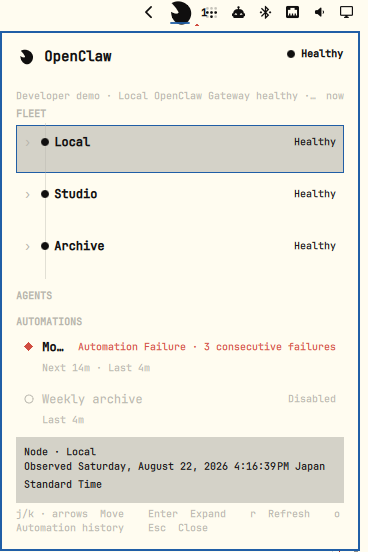
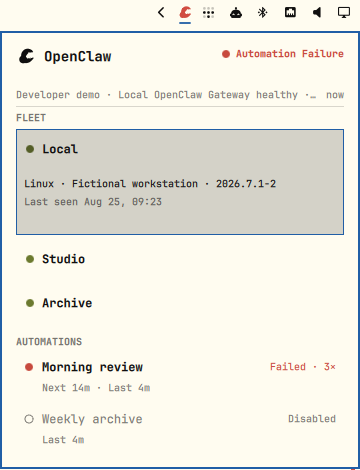
docs: READMEと実画面プレビューを更新する

diff --git a/README.md b/README.md
@@ -1,10 +1,36 @@
 # Clawbar
 
-Clawbar is a read-only OpenClaw Fleet signal board for the Omarchy bar. It
-collects bounded Operational Metadata from one configured Gateway, then renders
-the cached snapshot without blocking Quickshell.
+**See the state of OpenClaw without leaving your Omarchy bar.**
+
+Clawbar is a read-only status surface for your Gateway, Fleet, registered
+Agents, and Automations. The bar shows whether anything needs attention; the
+keyboard-first panel explains what changed without exposing task content,
+messages, credentials, or raw errors.
 
 ![Clawbar showing a fictional Fleet incident](preview.png)
+
+## Install
+
+```sh
+omarchy plugin add https://github.com/yasuhito/clawbar.git --enable
+```
+
+Clawbar appears in the right bar section and starts collecting immediately. It
+uses the Gateway already resolved by OpenClaw, so a normal local or configured
+remote setup needs no second connection configuration.
+
+## What you get
+
+- **One-glance status.** The Claw changes color with current severity; open the
+  panel for Gateway, Node, Agent, Task Result, and Automation context.
+- **Quiet incident notifications.** Clawbar groups failures and recoveries and
+  does not repeat the same notification on every refresh.
+- **A responsive shell.** Collection runs outside QML, has a 12-second deadline,
+  and renders from an atomic cached snapshot without blocking Quickshell.
+- **A strict privacy boundary.** Only bounded Operational Metadata reaches the
+  panel. Clawbar never stores a Gateway token or displays Private Content.
+- **Keyboard-first operation.** Navigate with arrows or `j`/`k`, refresh with
+  `r`, and close with Escape.
 
 ## Requirements
 
@@ -16,19 +42,12 @@ the cached snapshot without blocking Quickshell.
   resolve a local, configured remote, or Node-host Gateway
 
 Clawbar does not install a Python package, daemon, systemd service, or timer.
-One Quickshell service entry point owns the bounded collection schedule.
-
-## Install
-
-```sh
-omarchy plugin add https://github.com/yasuhito/clawbar.git --enable
-```
-
-The widget is placed in the right bar section. Enabling it starts one immediate
-collection and repeats every 30 seconds. OpenClaw first resolves its normal
-local or configured remote Gateway. If that fails on a Node host, Clawbar uses
-the Gateway connection recorded in OpenClaw-owned Node-host state; it never
-probes Fleet Nodes directly and never stores a Gateway token.
+One Quickshell service entry point owns the bounded collection schedule. It
+collects immediately after enablement and repeats every 30 seconds. OpenClaw
+first resolves its normal local or configured remote Gateway. If that fails on
+a Node host, Clawbar uses the Gateway connection recorded in OpenClaw-owned
+Node-host state; it never probes Fleet Nodes directly and never stores a
+Gateway token.
 If the Gateway retains several registrations with the same Node display name,
 Clawbar shows only the freshest connected registration.
 
@@ -65,21 +84,22 @@ Press Clawbar to open the panel.
 - Escape: close the panel
 - Middle-click the bar widget: request a non-blocking refresh
 
-The bar icon changes color with current severity; its compact slot does not
-render a separate status dot or count. The tooltip reports current Attention
-Items while yellow or red. Selecting a Node, Agent, or Automation expands its
-bounded Operational Metadata directly beneath that row; selecting another row
-moves the single expanded detail with the selection. The panel keeps Agents and
-Automations in independent sections because Gateway metadata establishes no
-Node ownership; an empty Agents section is omitted. Routine healthy Node and
-Automation rows omit the repeated `Healthy` label while retaining it for
-accessibility; exceptional and historical states remain explicit. A green
-`Healthy` indicator remains visible in the panel header. Registered Agents use
-a static green presence dot without claiming health or current activity;
-previous Task Result remains separate. Offline Nodes appear as muted Operational
-Metadata and do not affect Attention counts,
-Incidents, or notifications. Automation Failures appear once in the Automations
-section.
+The bar icon changes color with current severity and briefly snaps while
+hovered or collecting; its compact slot does not render a separate status dot
+or count. The tooltip reports current Attention Items while yellow or red. The
+panel keeps Gateway identity and status pinned while its operational rows
+scroll. Selecting a Node, Agent, or Automation expands its bounded Operational
+Metadata directly beneath that row; selecting another row moves the single
+expanded detail with the selection. The panel keeps Agents and Automations in
+independent sections because Gateway metadata establishes no Node ownership; an
+empty Agents section is omitted. Routine healthy Node and Automation rows omit
+the repeated `Healthy` label while retaining it for accessibility; exceptional
+and historical states remain explicit. A green `Healthy` indicator remains
+visible in the panel header. Registered Agents use a static green presence dot
+without claiming health or current activity; previous Task Result remains
+separate. Offline Nodes appear as muted Operational Metadata and do not affect
+Attention counts, Incidents, or notifications. Automation Failures appear once
+in the Automations section.
 
 ## Privacy boundary
 
